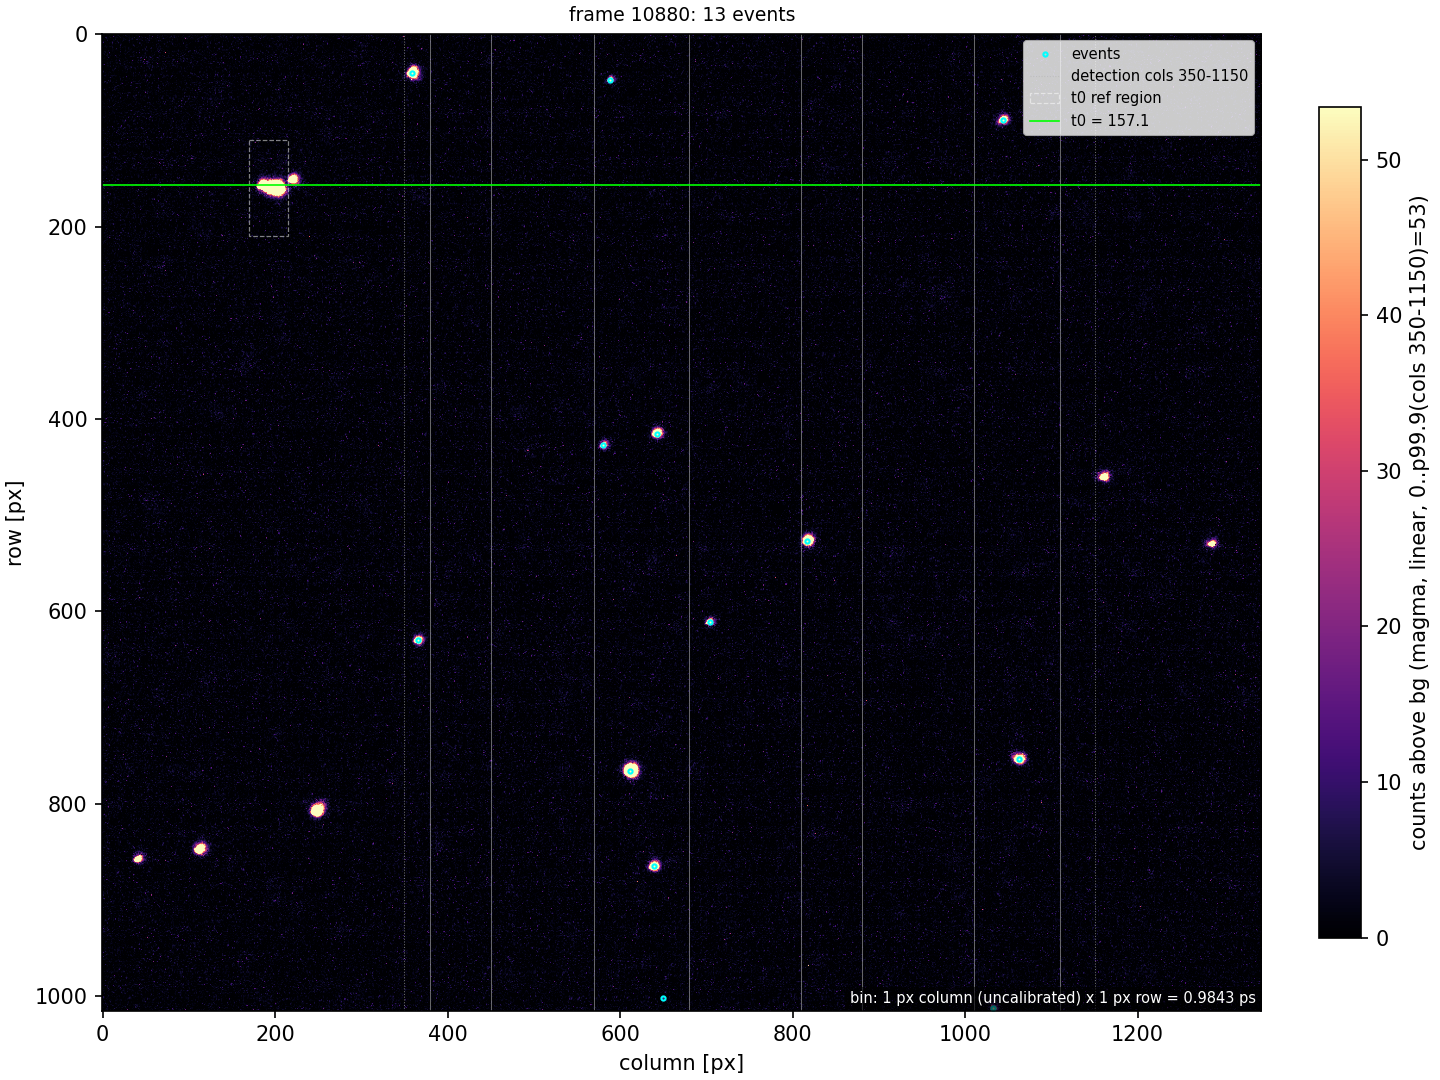
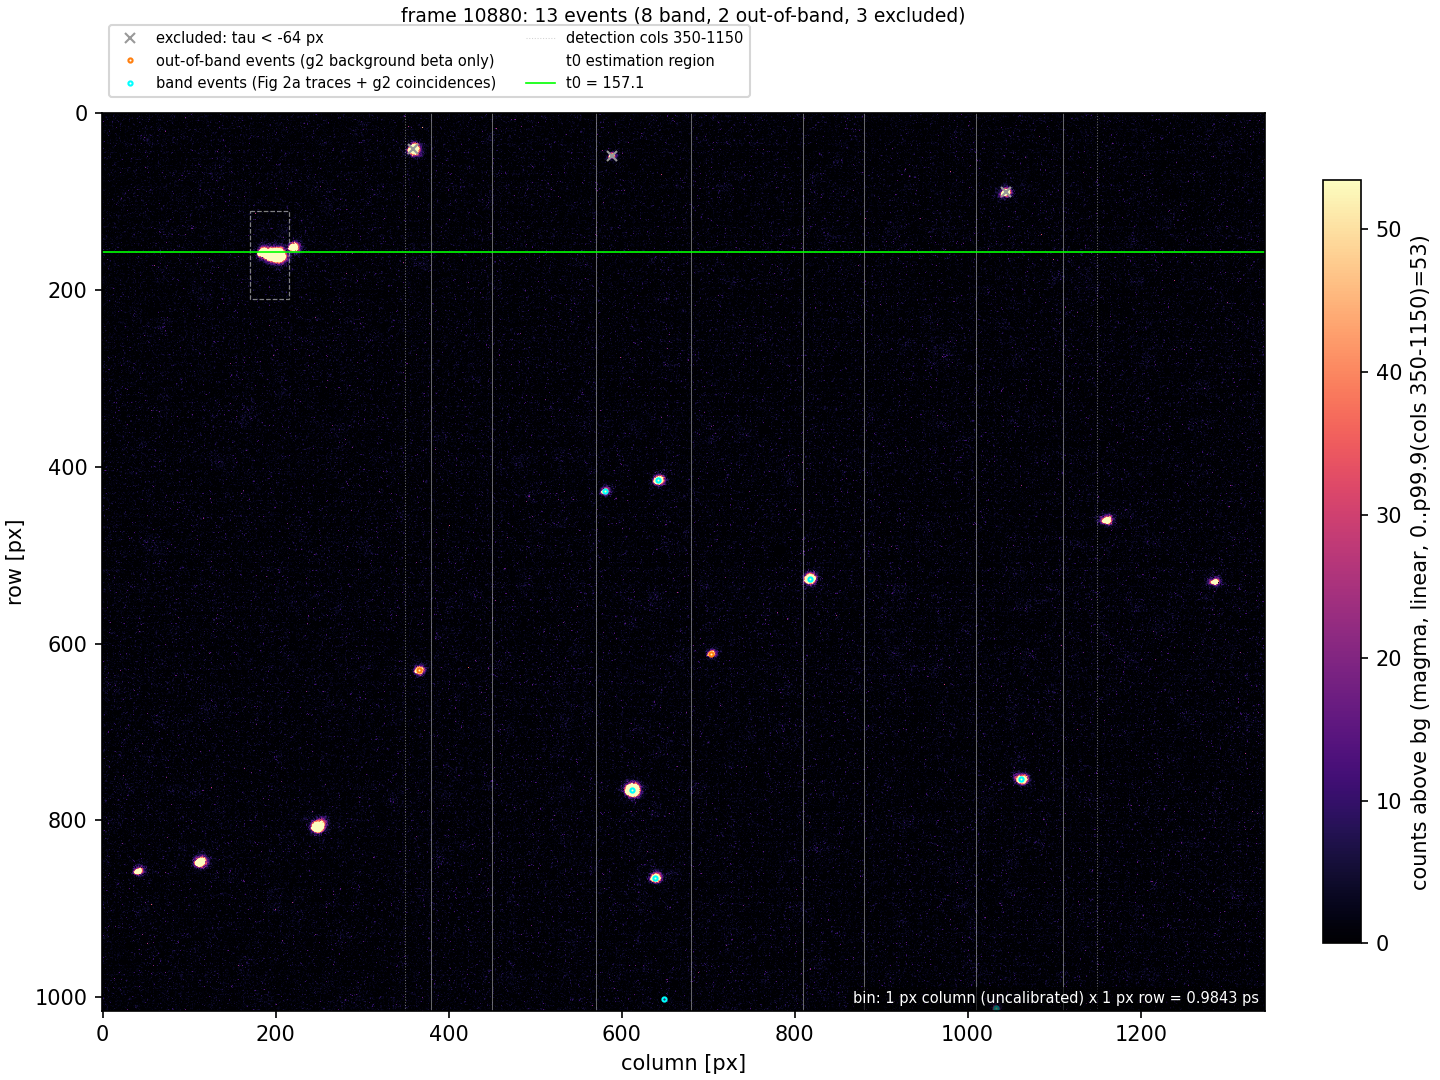
overlay 事件点按下游角色三色标注: 青=带内(Fig 2a 迹线+g2 符合计数), 橙=带外(仅 g2 残余背景 β), 灰×=τ<−64 排除; 图例移至轴外上方(原位置遮挡顶部 early-τ 点), t0 虚线框改名 t0 estimation region; README/MEMORY 同步(ROI=四条袋状区域=四个数据带窗), 5 张抽样图重生成
Model: kimi-code/k3-256k
Thinking: max

diff --git a/analysis/26-08-04-derived-hbt-time-reference/extract_hbt_traces.py b/analysis/26-08-04-derived-hbt-time-reference/extract_hbt_traces.py
@@ -1017,15 +1017,29 @@ def save_event_sample_overlays(h5_path, background, frame_t0, band_windows,
     """One full-frame overlay PNG per sampled frame, written next to events_h5.
 
     Events are re-detected on the fly with the production parameters so the
-    figure double-checks the stored table against the raw frames visually:
-    cyan markers must sit on bright blobs, none in the reference-pulse columns
+    figure double-checks the stored table against the raw frames visually.
+    Markers are split by the role the event plays downstream (2026-08-07, after
+    the single-color scheme was flagged as misleading):
+
+      * cyan dots — band events (inside one of the four band windows, tau
+        within the analysis grid): enter the Fig. 2(a) band photon traces and
+        the g2 coincidence count cubes;
+      * orange dots — out-of-band events (inside the detection columns but
+        outside every band window): enter only the g2 residual-background
+        estimate beta (fig2c_g2_estimator.background_beta_aligned);
+      * gray crosses — excluded events with tau < TAU_GRID[0] (-64 px, more
+        than ~63 ps before t0): stored in the table but outside the tau range
+        of both computations.
+
+    All markers must sit on bright blobs, none in the reference-pulse columns
     (170-215, outside the detection range), and the green t0 line must cross
     the reference spot's leading edge (the spot sits inside the dashed t0
-    reference-region box — a display annotation, not one of the four data
-    ROIs/bands). The full frame is shown (no column crop) so the reference pulse
-    stays visible; vmax is the 99.9th percentile of the detection column
-    range, so the bright reference spot saturates instead of crushing the
-    sparse band photons. Returns the written paths.
+    estimation-region box — a display annotation of the region the per-frame
+    t0 estimator scans, not one of the four data ROIs/bands). The full frame
+    is shown (no column crop) so the reference pulse stays visible; vmax is
+    the 99.9th percentile of the detection column range, so the bright
+    reference spot saturates instead of crushing the sparse band photons.
+    Returns the written paths.
     """
     paths = []
     with h5py.File(h5_path, "r") as handle:
@@ -1047,9 +1061,28 @@ def save_event_sample_overlays(h5_path, background, frame_t0, band_windows,
                 f"counts above bg (magma, linear, 0..p99.9(cols "
                 f"{EVENT_COL_RANGE[0]}-{EVENT_COL_RANGE[1]})={vmax:.0f})"
             )
+            # Split markers by downstream role: band events feed the Fig. 2(a)
+            # traces and the g2 coincidence cubes; out-of-band events feed only
+            # the g2 residual-background beta; events earlier than the tau grid
+            # take no part in either computation.
+            tau = rows - frame_t0[int(index)]
+            in_band = np.zeros(rows.size, dtype=bool)
+            for lo, hi in band_windows:
+                in_band |= (cols >= lo) & (cols <= hi)
+            early = tau < TAU_GRID[0]
             axis.plot(
-                cols, rows, ".", ms=4,
-                color="cyan", mfc="none", label="events",
+                cols[early], rows[early], "x", ms=5, color="0.6",
+                label=f"excluded: tau < {TAU_GRID[0]:g} px",
+            )
+            axis.plot(
+                cols[~in_band & ~early], rows[~in_band & ~early], ".", ms=4,
+                color="tab:orange", mfc="none",
+                label="out-of-band events (g2 background beta only)",
+            )
+            axis.plot(
+                cols[in_band & ~early], rows[in_band & ~early], ".", ms=4,
+                color="cyan", mfc="none",
+                label="band events (Fig 2a traces + g2 coincidences)",
             )
             for lo, hi in band_windows:
                 axis.axvline(lo, color="white", lw=0.5, alpha=0.4)
@@ -1064,7 +1097,7 @@ def save_event_sample_overlays(h5_path, background, frame_t0, band_windows,
             axis.add_patch(mpatches.Rectangle(
                 (col0, row0), col1 - col0, row1 - row0, fill=False,
                 edgecolor="white", lw=0.6, ls="--", alpha=0.5,
-                label="t0 ref region",
+                label="t0 estimation region",
             ))
             axis.axhline(frame_t0[int(index)], color="lime", lw=0.8,
                          label=f"t0 = {frame_t0[int(index)]:.1f}")
@@ -1075,10 +1108,21 @@ def save_event_sample_overlays(h5_path, background, frame_t0, band_windows,
                 color="white",
                 bbox=dict(facecolor="black", alpha=0.6, lw=0, pad=2),
             )
-            axis.set_title(f"frame {index}: {rows.size} events", fontsize=9)
+            n_band = int((in_band & ~early).sum())
+            n_out = int((~in_band & ~early).sum())
+            axis.set_title(
+                f"frame {index}: {rows.size} events "
+                f"({n_band} band, {n_out} out-of-band, {int(early.sum())} excluded)",
+                fontsize=9, pad=44,
+            )
             axis.set_xlabel("column [px]")
             axis.set_ylabel("row [px]")
-            axis.legend(fontsize=7, loc="upper right")
+            # Legend above the axes, not inside: early-tau events sit near the
+            # top edge and would be hidden behind an in-axes legend box.
+            axis.legend(
+                fontsize=7, loc="lower left", bbox_to_anchor=(0.0, 1.01),
+                ncol=2,
+            )
             out_png = events_h5.with_name(
                 f"{events_h5.stem}_sample_overlay_frame{int(index):05d}.png"
             )

diff --git a/analysis/26-08-04-derived-hbt-time-reference/detected-peaks/README.md b/analysis/26-08-04-derived-hbt-time-reference/detected-peaks/README.md
@@ -19,11 +19,17 @@ CFD50 定时间零点后，把 8-连通亮斑（≥2 px、积分幅度 > 25 coun
 - `26-08-04_hbt_time_reference_events_validation.json`：同遍自洽验证结果；
 - `26-08-04_hbt_time_reference_events_sample_overlay_frameNNNNN.png`：5 张抽样
   叠加图，**每图一个种子随机帧**（种子 20260807，从 t0 保留帧中抽取），**全帧
-  不裁剪**：事件点叠在扣背景帧上，白带边线（四个数据 ROI 的边界）、点线检测列
-  范围 350–1150、虚线 t0 参考区（reference-pulse 估计区，非 ROI）、绿 t0 线（穿过参考脉冲前沿——只有全帧图才能看到参考脉冲列）；图内
-  右下角标注 bin size（1 行 = 0.9843 ps，1 列 = 未标定探测器像素）。色标上限
-  取检测列范围的 p99.9，参考脉冲饱和显示以保全带光子可见。供目视检查检测
-  质量；`--overlays-only` 无需重跑提取即可重生成。
+  不裁剪**：事件点叠在扣背景帧上，按下游角色分三类标注（2026-08-07 起，此前
+  单一青色被指出有误导性）——青点 = 带内事件（落在四个数据带窗内且 τ 在分析
+  栅内，进 Fig. 2(a) 带 photon 迹线与 g2 符合计数 cube）；橙点 = 带外事件
+  （检测列 350–1150 内、四带外，只进 g2 残余背景 β 估计）；灰 × = 排除事件
+  （τ < −64 px，早于 t0 逾 ~63 ps，存于表内但两个计算的分 bin 都不收）。标题
+  括号给出三类计数。另绘：白带边线（四个数据 ROI 的边界）、点线检测列
+  范围 350–1150、虚线 t0 估计区（t0 estimation region，CFD50 逐帧扫描
+  reference-pulse 的区域，非 ROI）、绿 t0 线（穿过参考脉冲前沿——只有全帧图
+  才能看到参考脉冲列）；图内右下角标注 bin size（1 行 = 0.9843 ps，1 列 = 未
+  标定探测器像素）。色标上限取检测列范围的 p99.9，参考脉冲饱和显示以保全带
+  光子可见。供目视检查检测质量；`--overlays-only` 无需重跑提取即可重生成。
 
 ## `26-08-04_hbt_time_reference_events.h5`（事件表）
 
@@ -87,7 +93,8 @@ t0 统计：中位行 154.78，RMS 抖动 13.17 ps（`ps_per_px` 属性 = 0.9842
    事件点落在亮斑上、参考脉冲列无事件；2026-08-07 起改为 5 张全帧独立图
    （种子随机帧 2414/4546/5339/10880/16085），逐张复核以上两项，且"t0 线穿过
    参考脉冲前沿"一项在全帧图上才真实可见（裁剪图看不到参考脉冲列，该检查
-   此前无法在此图上执行）。
+   此前无法在此图上执行）；同日再改为按下游角色三色标注（青=带内、橙=带外
+   仅 β、灰×=τ<−64 排除），标题括号内计数与事件表逐帧统计一致。
 5. 旧 `drafts/26-08-06_fig2c/event_table_validation.json` 的 `pass:false` 为陈旧
    记录：它写于对账容差放宽（1e-12 → ≤2 计数）之前，放宽后该文件未被重写
    （`--validate-only` 只打印不写盘）；以其自身记录的差值按最终判据折算实为 PASS

diff --git a/MEMORY.md b/MEMORY.md
@@ -14,6 +14,7 @@
 - One single-sweep frame is one realization, not a \(g^{(2)}\) matrix. Normally ordered correlations require many sparse photon-counting trials with same-event identity and independent HBT arms.
 - Treat Stark-triggered oscillations conservatively as population dynamics consistent with Josephson exchange until counterphase response, weak common-mode response, parameter controls and relative-phase measurements exclude reservoir/detection transients.
 - For the 2017 Adiyatullin paper, use the Zotero attachment named `Full Text PDF`. The experiment measured time-resolved intensity correlations; its squeezing curve was model-derived rather than a direct quadrature measurement.
+- In the 26-08-04 HBT analysis context, "the ROI" (user's term: 四条袋状区域 / "four bag regions") means the four emission-band column windows B1–B4 of the Fig. 2(a) pipeline (main batch: 380–450, 570–680, 810–880, 1010–1110; the supplement batch re-localized its own) — 2 mesas x 2 HBT arms, same-mesa pairs L=B1xB3, R=B2xB4. On streak frames they appear as four vertical bright bands. Detection columns 350–1150 are NOT the ROI; they also cover the inter-band columns whose events feed the g2 residual-background estimate beta.
 
 ## Figure conventions
 
